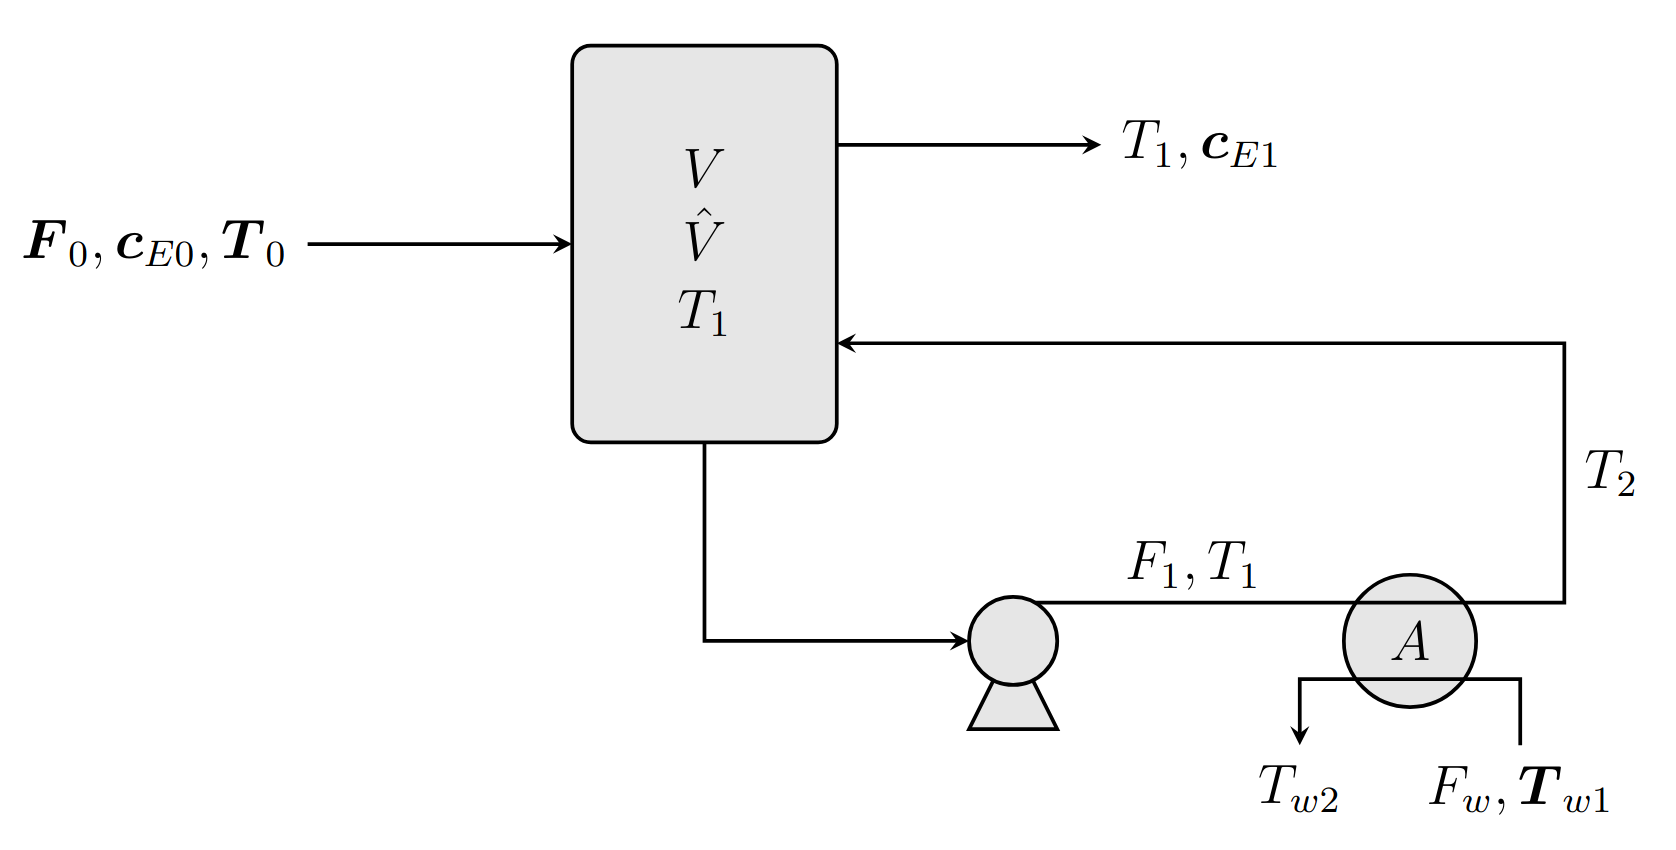
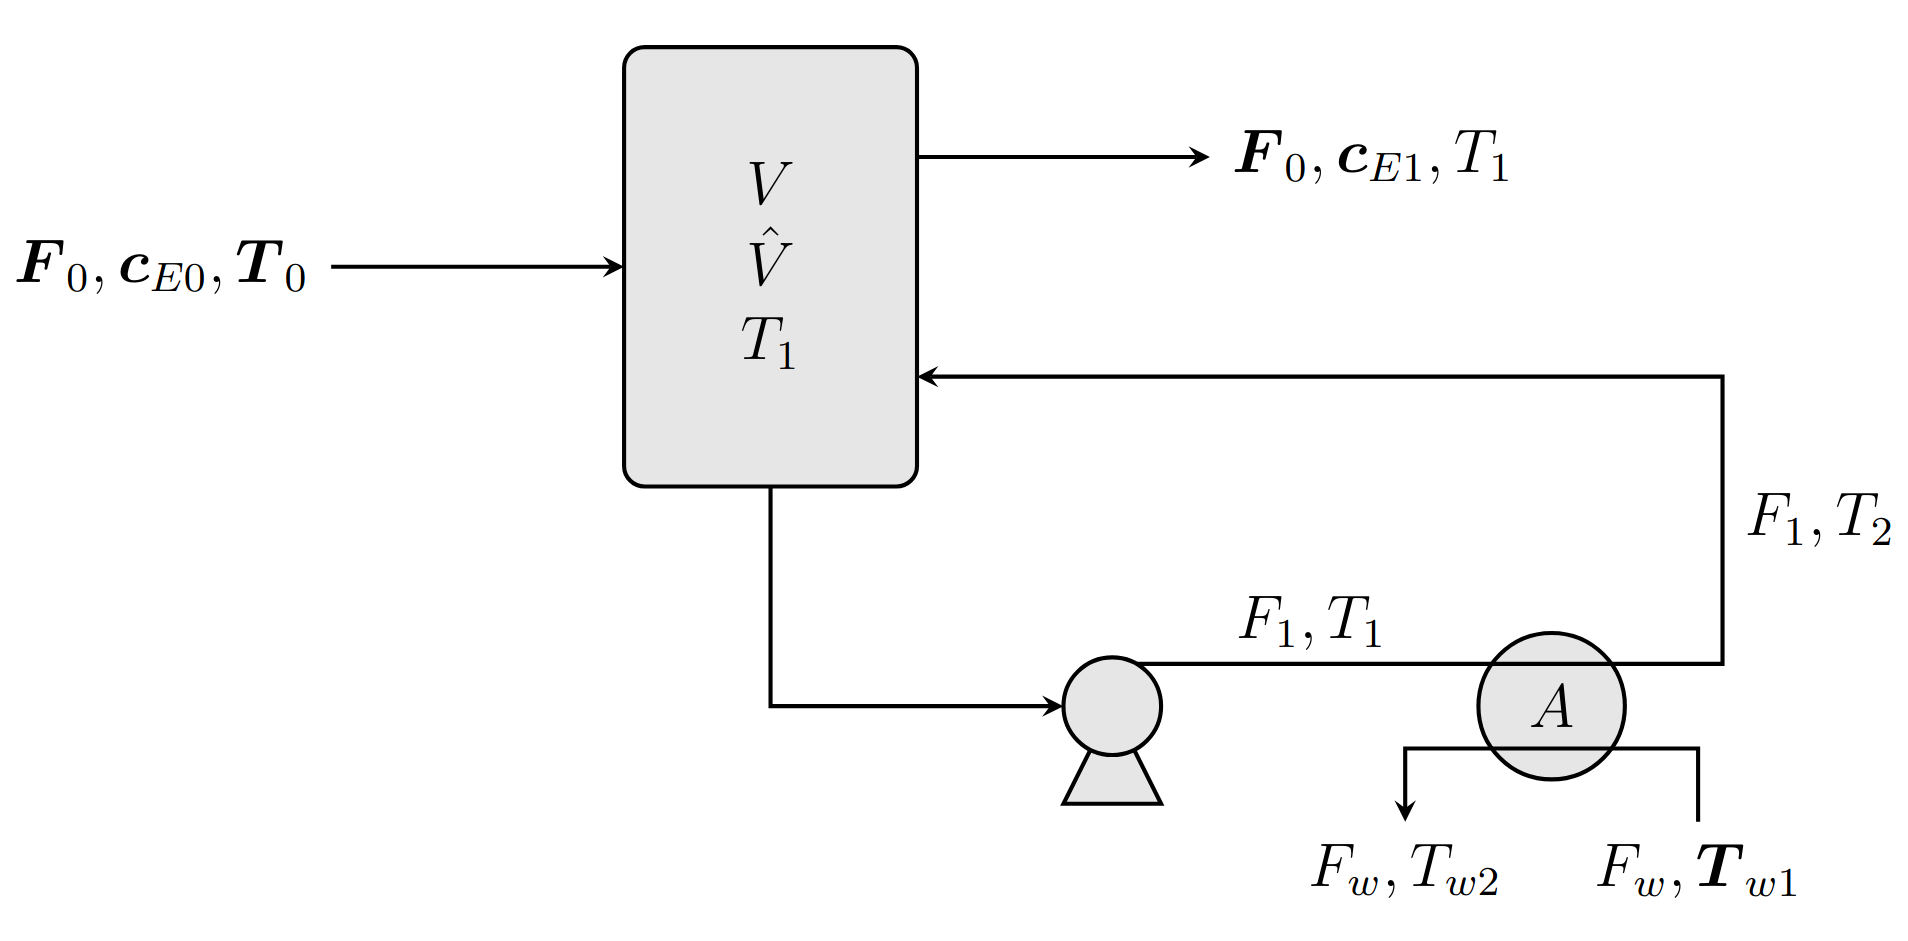
Fix new PyROS tutorial code and writeup

diff --git a/doc/OnlineDocs/explanation/solvers/pyrosdir/tutorial/tutorial.rst b/doc/OnlineDocs/explanation/solvers/pyrosdir/tutorial/tutorial.rst
@@ -46,7 +46,7 @@ with subordinate NLP optimizers.
 Formulate the Model
 ~~~~~~~~~~~~~~~~~~~
 
-Consider the reactor-cooler system below:
+Consider the reactor-cooler system below.
 
 .. figure:: reactor_cooler.png
    :alt: Reactor-cooler system.
@@ -62,7 +62,8 @@ concentration :math:`\boldsymbol{c}_{E0} = 32.04\, \text{kmol}/\text{m}^3`,
 and heat capacity
 :math:`\boldsymbol{c}_p = 167.4\,\text{kJ}/ \text{kmol}\,\text{K}`.
 Inside the reactor, the exothermic reaction :math:`E \to F` occurs
-at temperature :math:`T_1`, with a conversion of 90%.
+at temperature :math:`T_1` and with a conversion of 90%,
+so that :math:`\boldsymbol{c}_{E1} = 0.1\boldsymbol{c}_{E0}`.
 We assume that the reaction
 follows first-order kinetics, with a rate constant
 :math:`\boldsymbol{k}_\text{R}` of nominal value
@@ -113,7 +114,7 @@ optimization model for the system of interest can be written as
        \text{s.t.}
        &  
        \displaystyle\boldsymbol{F}_{0} \left(\frac{\boldsymbol{c}_{E0} - \boldsymbol{c}_{E1}}{\boldsymbol{c}_{E0}}\right)
-       = V \boldsymbol{k}_{\text{R}} \exp{\left(-\frac{\boldsymbol{E}}{\boldsymbol{R}T_1}\right)}c_{E1}
+       = V \boldsymbol{k}_{\text{R}} \exp{\left(-\frac{\boldsymbol{E}}{\boldsymbol{R}T_1}\right)}\boldsymbol{c}_{E1}
        \\
        & \displaystyle
        -\boldsymbol{\Delta}\boldsymbol{H}_{\text{R}}\boldsymbol{F}_{0}
@@ -196,8 +197,8 @@ First, we import Pyomo:
 
     >>> import pyomo.environ as pyo
 
-and write a function for building (an uninitialized instance of) the
-model:
+and write a function for building the
+model (with the variables uninitialized):
 
 .. code::
 
@@ -205,39 +206,41 @@ model:
     ...     m = pyo.ConcreteModel()
     ... 
     ...     # certain parameters
-    ...     m.cA0 = pyo.Param(initialize=32.040, mutable=True)
-    ...     m.cA1 = pyo.Param(initialize=0.1 * m.cA0, mutable=True)
-    ...     m.EovR = pyo.Param(initialize=555.6, mutable=True)
-    ...     m.delHr = pyo.Param(initialize=-23260, mutable=True)
-    ...     m.cp = pyo.Param(initialize=167.400, mutable=True)
-    ...     m.cwp = pyo.Param(initialize=4.184, mutable=True)
-    ...     m.F0 = pyo.Param(initialize=45.36, mutable=True)
-    ...     m.T0 = pyo.Param(initialize=333, mutable=True)
-    ...     m.Tw1 = pyo.Param(initialize=300, mutable=True)
+    ...     m.cA0 = pyo.Param(initialize=32.040)
+    ...     m.cA1 = pyo.Param(initialize=0.1 * m.cA0)
+    ...     m.EovR = pyo.Param(initialize=555.6)
+    ...     m.delHr = pyo.Param(initialize=-23260)
+    ...     m.cp = pyo.Param(initialize=167.400)
+    ...     m.cwp = pyo.Param(initialize=4.184)
+    ...     m.F0 = pyo.Param(initialize=45.36)
+    ...     m.T0 = pyo.Param(initialize=333)
+    ...     m.Tw1 = pyo.Param(initialize=300)
     ...
     ...     # uncertain parameters
     ...     m.kR = pyo.Param(initialize=10, mutable=True)
     ...     m.U = pyo.Param(initialize=1635, mutable=True)
     ... 
-    ...     # first-stage
+    ...     # first-stage variables
     ...     m.Vhat = pyo.Var(bounds=(0, 20))
     ...     m.A = pyo.Var(bounds=(0, 10))
     ... 
-    ...     # second-stage
+    ...     # second-stage variables
     ...     m.F1 = pyo.Var()
     ...     m.T1 = pyo.Var(bounds=(311, 389))
     ... 
-    ...     # state
+    ...     # state variables
     ...     m.V = pyo.Var(bounds=(0, None))
     ...     m.Qhe = pyo.Var()
     ...     m.T2 = pyo.Var(bounds=(311, 389))
     ...     m.Tw2 = pyo.Var(bounds=(301, 355))
     ...     m.Fw = pyo.Var()
     ... 
+    ...     # objective and constituent expressions
     ...     m.capex = pyo.Expression(expr=691.2 * m.Vhat ** 0.7 + 873.6 * m.A ** 0.6)
     ...     m.opex = pyo.Expression(expr=1.76 * m.Fw + 7.056 * m.F1)
     ...     m.obj = pyo.Objective(expr=m.capex + m.opex)
     ... 
+    ...     # equality constraints
     ...     m.reactant_mol_bal = pyo.Constraint(
     ...         expr=(
     ...             m.F0 * ((m.cA0 - m.cA1) / m.cA0)
@@ -265,6 +268,7 @@ model:
     ...         lmtd_expr = (dt1 - dt2) / (pyo.log(dt1) - pyo.log(dt2))
     ...         return m.Qhe == m.A * m.U * lmtd_expr
     ... 
+    ...     # inequality constraints
     ...     m.V_con = pyo.Constraint(expr=(m.V <= m.Vhat))
     ...     m.T1T2_con = pyo.Constraint(expr=(1 <= m.T1 - m.T2))
     ...     m.Tw1Tw2_con = pyo.Constraint(expr=(1 <= m.Tw2 - m.Tw1))
@@ -301,15 +305,15 @@ model:
     :ref:`Uncertain Parameters section of the Solver Interface page <pyros_uncertain_params>`.
 
 
-For convenience, we also write a function to initialize the variables of
-the model:
+For convenience, we also write a function to initialize the model's
+variables values:
 
 .. code::
 
     >>> from pyomo.util.calc_var_value import calculate_variable_from_constraint
     >>>
     >>> def initialize_model(m, Vhat=20, A=10, F1=50, T1=389):
-    ...     # set degrees of freedom
+    ...     # set first-stage and second-stage variable values
     ...     m.Vhat.set_value(Vhat)
     ...     m.A.set_value(A)
     ...     m.F1.set_value(F1)
@@ -338,7 +342,8 @@ the model:
     ...     )
     ...
 
-And finally, a function to build and initialize the model:
+And finally, a function to build the model and
+and initialize the variable values:
 
 .. code::
 
@@ -360,12 +365,12 @@ the current solution:
 .. code::
 
     >>> def print_solution(model):
-    ...     print(f"Objective      ($/yr)    : {pyo.value(m.obj):.2f}")
-    ...     print(f"Reactor volume (m^3)     : {m.Vhat.value:.2f}")
-    ...     print(f"Cooler area    (m^2)     : {m.A.value:.2f}")
-    ...     print(f"F1             (kmol/hr) : {m.F1.value:.2f}")
-    ...     print(f"T1             (K)       : {m.T1.value:.2f}")
-    ...     print(f"Fw             (kg/hr)   : {m.Fw.value:.2f}")
+    ...     print(f"Objective      ($/yr)    : {pyo.value(model.obj):.2f}")
+    ...     print(f"Reactor volume (m^3)     : {model.Vhat.value:.2f}")
+    ...     print(f"Cooler area    (m^2)     : {model.A.value:.2f}")
+    ...     print(f"F1             (kmol/hr) : {model.F1.value:.2f}")
+    ...     print(f"T1             (K)       : {model.T1.value:.2f}")
+    ...     print(f"Fw             (kg/hr)   : {model.Fw.value:.2f}")
     ...
 
 Inspecting the initial model solution:
@@ -636,7 +641,7 @@ and represent the uncertainty set with an instance of the PyROS
 
     >>> uncertain_params = [m.kR, m.U]
     >>> uncertainty_set = pyros.BoxSet(bounds=[
-    ...     [param.value * (1 - 0.05), param.value * (1 + 0.1)] for param in uncertain_params
+    ...     [param.value * (1 - 0.05), param.value * (1 + 0.05)] for param in uncertain_params
     ... ])
 
 Subsolvers
@@ -697,7 +702,7 @@ and invoking the :meth:`~pyomo.contrib.pyros.pyros.PyROS.solve` method:
 
 By default, the progress and final result of the PyROS solver
 is logged to the console.
-The :ref:`Solver Log Output documentation <pyros_solver_log>`
+The :ref:`Solver Output Log documentation <pyros_solver_log>`
 provides guidance on how the solver log is to be interpreted.
 The :meth:`~pyomo.contrib.pyros.pyros.PyROS.solve` method
 returns an :class:`~pyomo.contrib.pyros.solve_data.ROSolveResults`
@@ -721,12 +726,12 @@ are increased:
 .. code::
 
     >>> print_solution(m)  # may vary
-    Objective      ($/yr)    : 10334.71
+    Objective      ($/yr)    : 10064.11
     Reactor volume (m^3)     : 5.59
-    Cooler area    (m^2)     : 6.99
-    F1             (kmol/hr) : 81.51
+    Cooler area    (m^2)     : 7.19
+    F1             (kmol/hr) : 85.39
     T1             (K)       : 389.00
-    Fw             (kg/hr)   : 2641.08
+    Fw             (kg/hr)   : 2444.42
 
 
 We can also confirm the robust feasibility of the solution empirically:
@@ -777,7 +782,7 @@ argument ``decision_rule_order``:
     <pyomo.contrib.pyros.solve_data.ROSolveResults at ...>
 
 
-Inspecting solutions, we see that the cost is reduced compared to when
+Inspecting the solution, we see that the cost is reduced compared to when
 :ref:`a static decision rule approximation is used <pyros_tutorial_inspect_static>`,
 as a smaller cooling water flow rate :math:`F_w` is required
 since the cooler area :math:`A` is increased:
@@ -807,15 +812,16 @@ is robust:
 Assess Impact of Uncertainty Set on the Solution Obtained
 ~~~~~~~~~~~~~~~~~~~~~~~~~~~~~~~~~~~~~~~~~~~~~~~~~~~~~~~~~
 
-We now perform a price-of-robustness study, in which the size of the
-uncertainty set is varied to assess the response of the solution. This
-can be easily performed by placing the PyROS solver invocation in a
-for-loop and recording the results at each iteration.
+We now perform a price-of-robustness study, in which
+we assess the response of the solution obtained to the
+size of the uncertainty set.
+This study can be easily performed by placing the PyROS solver
+invocation in a ``for`` loop and recording the result at each iteration.
 
-Invoke PyROS in a ``for``-Loop
+Invoke PyROS in a ``for`` Loop
 ^^^^^^^^^^^^^^^^^^^^^^^^^^^^^^
 
-The PyROS solver invocation can easily be made in a ``for``-loop. At
+The PyROS solver invocation can easily be made in a ``for`` loop. At
 each iteration of the loop, we use PyROS to solve the RO problem subject
 to the uncertainty set of the corresponding size:
 
@@ -869,7 +875,7 @@ to the uncertainty set of the corresponding size:
 Visualize the Results
 ^^^^^^^^^^^^^^^^^^^^^
 
-We can visualize the results of our price-of-robustness, as follows:
+We can visualize the results of our price-of-robustness analysis, as follows:
 
 .. code::
 
@@ -880,6 +886,7 @@ We can visualize the results of our price-of-robustness, as follows:
     ... )
     >>> plt.subplots_adjust(wspace=0.4, hspace=0.6)
     >>> 
+    >>> # plot costs
     >>> obj_ax.plot(obj_vals.keys(), obj_vals.values(), label="total", marker="o")
     >>> obj_ax.plot(capex_vals.keys(), capex_vals.values(), label="CAPEX", marker="s")
     >>> obj_ax.plot(opex_vals.keys(), opex_vals.values(), label="OPEX", marker="^")
@@ -887,10 +894,12 @@ We can visualize the results of our price-of-robustness, as follows:
     >>> obj_ax.set_ylabel("Cost ($/yr)")
     >>> obj_ax.legend()
     >>> 
+    >>> # plot reactor volume
     >>> vhat_ax.plot(vhat_vals.keys(), vhat_vals.values(), marker="o")
     >>> vhat_ax.set_xlabel("Deviation from Nominal Value (%)")
     >>> vhat_ax.set_ylabel(r"Reactor Volume ($\mathrm{m}^3$)")
     >>> 
+    >>> # plot cooler area
     >>> area_ax.plot(area_vals.keys(), area_vals.values(), marker="o")
     >>> area_ax.set_xlabel("Deviation from Nominal Value (%)")
     >>> area_ax.set_ylabel(r"Cooler Heat Transfer Area ($\mathrm{m}^2$)")
